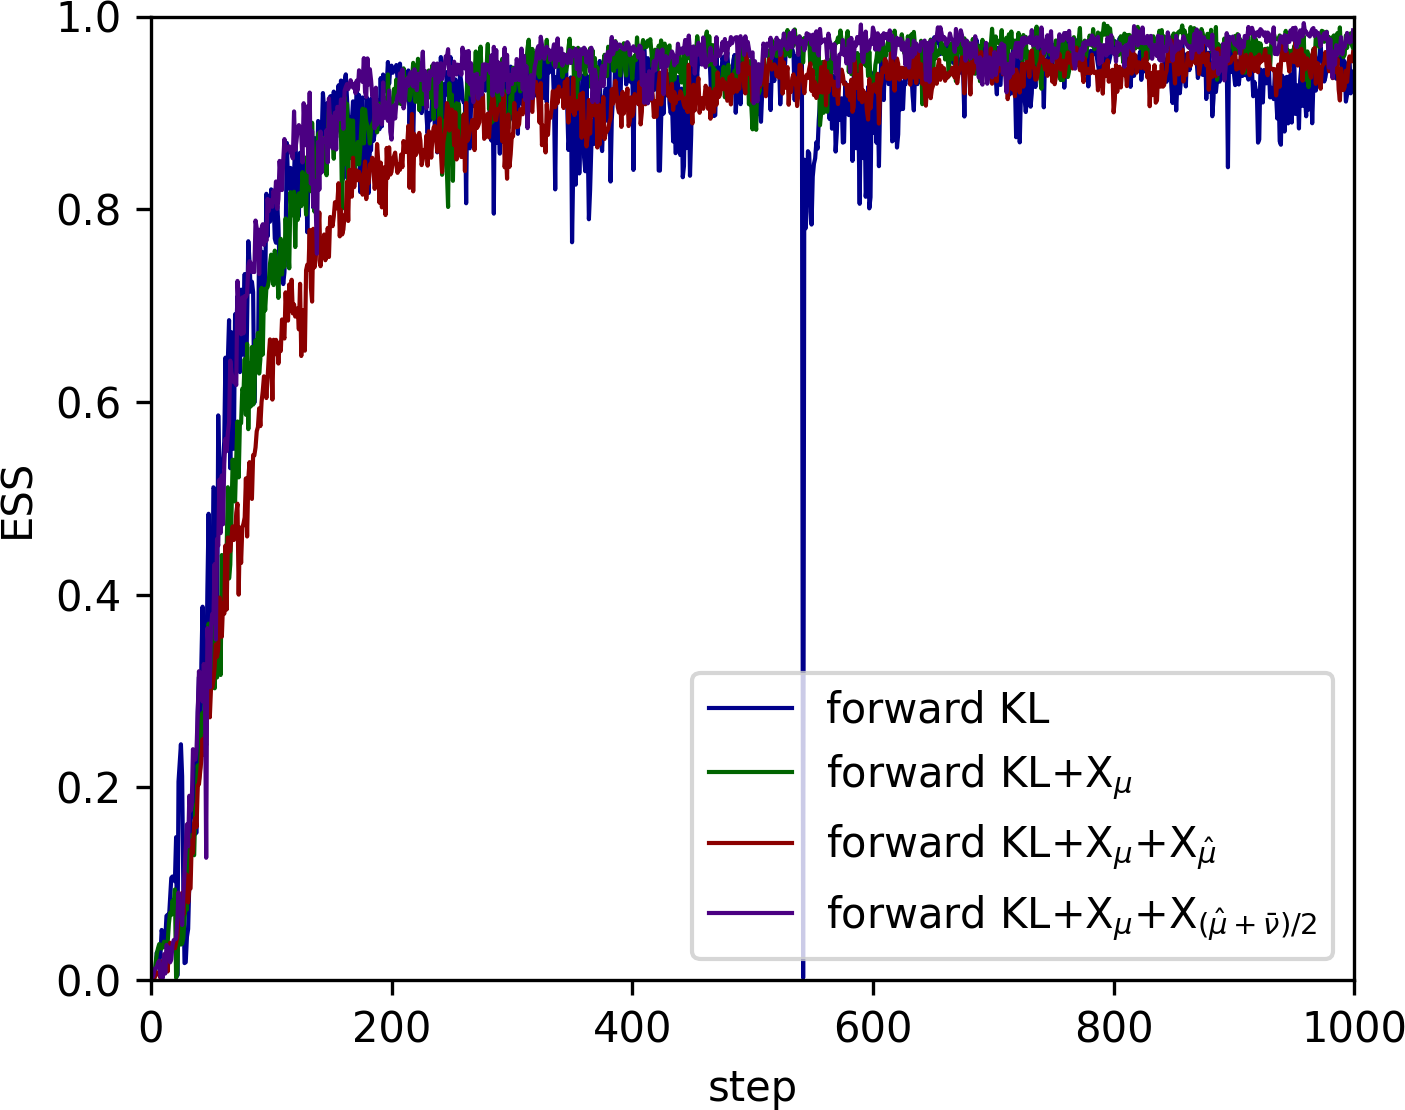
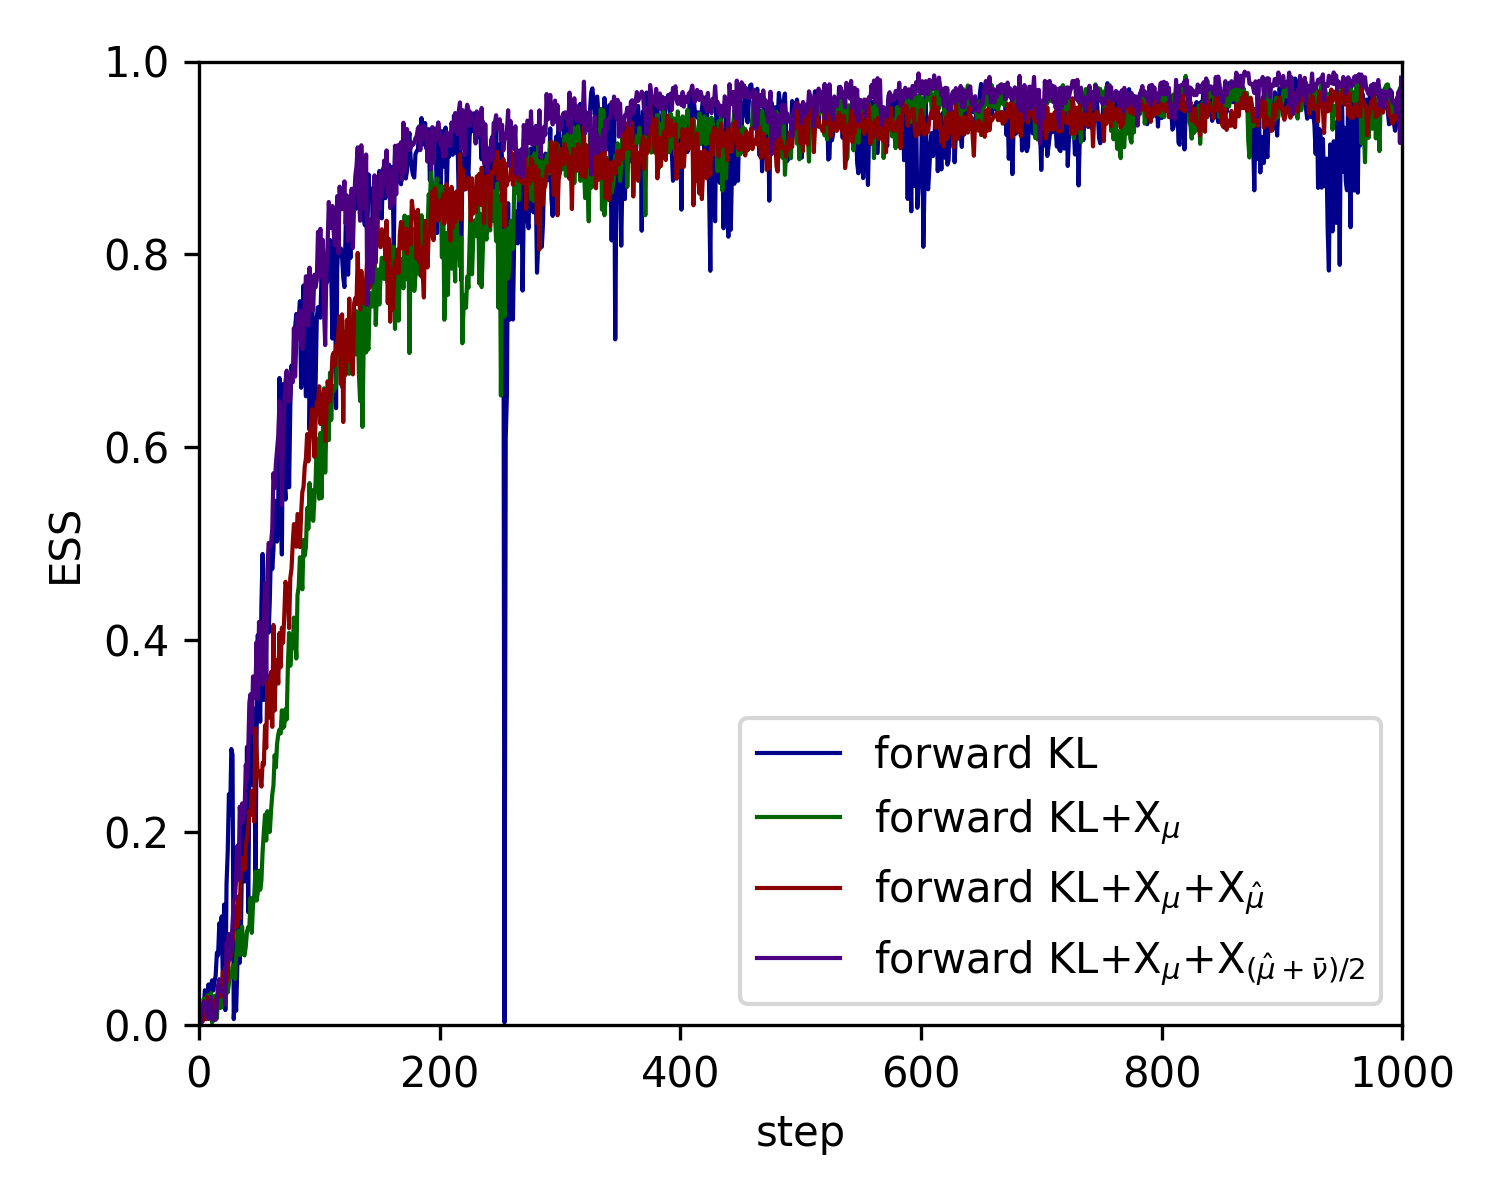
update Himmelblau and Python experiments

Changed region(s): [[0.0306, 0.0, 1.0, 1.0], [0.0, 0.4288, 0.0612, 0.4901]]

diff --git a/2D_Python/parameters.py b/2D_Python/parameters.py
@@ -11,6 +11,6 @@ HIDDEN_FEATURES = (128, 128)         # widths of the hidden layers in each coupl
 # training parameters
 N_TRAIN: int = 50000   # size of the source-sample pool drawn once and reused across steps
 N_VALID: int = 50000   # size of the fresh source batch used for final ESS / coverage evaluation
-BATCH:   int = 500     # number of source samples per training step
+BATCH:   int = 400     # number of source samples per training step
 STEPS:   int = 2000    # number of Adam optimization steps
-LR:      float = 1e-3  # Adam learning rate
+LR:      float = 2e-3  # Adam learning rate
